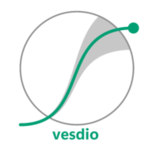
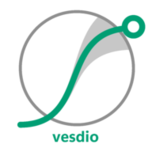
clean files

Changed region(s): [[0.1053, 0.0526, 0.9737, 0.9474]]

diff --git a/assets/custom.css b/assets/custom.css
@@ -1,0 +1,10 @@
+/* assets/custom.css */
+
+/*
+  This rule targets the individual options within a dcc.Dropdown menu.
+  It allows text to wrap and increases the vertical padding to make each
+  option taller, which prevents wrapped text from looking cramped.
+*/
+.Select-menu-outer .Select-option {
+    padding: 8px 12px;
+}

diff --git a/app.py b/app.py
@@ -17,7 +17,6 @@ from threading import Timer
 from src.data_loader import load_labels_data, load_mrio_matrices, load_production_history, load_encore_materiality
 from src.callbacks import handle_simulation_results
 from src.config import country_mapping, COUNTRY_CODES_3_LETTER, COLOR_PALETTE, get_valid_region_groups
-from src.plotting import truncate_label, create_builder_historical_plot
 
 # --- 1. Load Data and Pre-compute --- #
 # Data will be loaded within the callback based on the selected year
@@ -25,10 +24,12 @@ from src.plotting import truncate_label, create_builder_historical_plot
 # --- 2. Initialize Dash App --- #
 app = dash.Dash(__name__,
     suppress_callback_exceptions=True,
-    external_stylesheets=[{
-        'href': 'https://codepen.io/chriddyp/pen/bWLwgP.css',
-        'rel': 'stylesheet'
-    }]
+    external_stylesheets=[
+        # Default Dash stylesheet
+        'https://codepen.io/chriddyp/pen/bWLwgP.css',
+        # Custom styles for dropdowns and other elements
+        '/assets/custom.css'
+    ]
 )
 server = app.server
 
@@ -55,7 +56,10 @@ app.layout = html.Div(style={'fontFamily': 'Arial, sans-serif', 'height': '100vh
             'flexShrink': 0 # Prevent the bar from shrinking
         },
         children=[
-            html.H1("VESD.IO", style={'margin': 0, 'fontSize': '24px'}),
+            html.Div(style={'display': 'flex', 'alignItems': 'center'}, children=[
+                html.Img(src='/assets/ms-icon-310x310.png', style={'height': '50px', 'marginRight': '15px'}),
+                html.H1("VESDIO", style={'margin': 0, 'fontSize': '24px'}),
+            ]),
             html.Button("Instructions", id="open-instructions-button", n_clicks=0, className='button-primary')
         ]
     ),
@@ -96,15 +100,13 @@ app.layout = html.Div(style={'fontFamily': 'Arial, sans-serif', 'height': '100vh
                 ]),
                 # Portfolio Mode Controls
                 html.Div(id='portfolio-controls', style={'display': 'none'}, children=[
-                    html.Div(className='row', style={'marginTop': '10px'}, children=[
-                        html.Div(className='six columns', children=[
-                            html.Label("Region:"),
-                            dcc.Dropdown(id='portfolio-region-select')
-                        ]),
-                        html.Div(className='six columns', children=[
+                    html.Div(children=[
+                        html.Label("Region:"),
+                        dcc.Dropdown(id='portfolio-region-select')
+                    ]),
+                    html.Div(children=[
                             html.Label("Sector:"),
                             dcc.Dropdown(id='portfolio-sector-select')
-                        ]),
                     ]),
                     html.Label("Portfolio Weight (%):"),
                     dcc.Input(id='portfolio-weight-input', type='number', min=0.1, max=100, step=0.1, value=10, style={'width': '100%'}),
@@ -375,11 +377,11 @@ app.layout = html.Div(style={'fontFamily': 'Arial, sans-serif', 'height': '100vh
                 # Header
                 html.Div([
                     html.Span("×", id="instructions-modal-close-button", style={'color': '#aaa', 'float': 'right', 'fontSize': '28px', 'fontWeight': 'bold', 'cursor': 'pointer'}),
-                    html.H2("How to Use VESD.IO"),
+                    html.H2("How to Use VESDIO"),
                 ]),
                 # Body with instructions
                 dcc.Markdown('''
-                    Welcome to the Valuing Ecosystem Service Dependencies with Input-Output (VESD.IO) tool. This application helps you simulate the economic impacts of ecosystem services and supply chain disruptions.
+                    Welcome to the Valuing Ecosystem Service Dependencies with Input-Output (VESDIO) tool. This application helps you simulate the economic impacts of ecosystem services and supply chain disruptions.
 
                     #### **Step 1: Set Your Perspective**
                     In the "Your Position / Portfolio" panel, choose how you want to analyze impacts:
@@ -469,7 +471,7 @@ def update_dropdowns(year):
     ] + country_options
 
     # Sector options
-    sector_options = [{'label': truncate_label(s), 'value': s} for s in SECTORS]
+    sector_options = [{'label': s, 'value': s} for s in SECTORS]
 
     # Add ecosystem services options for the dropdown
     encore_materiality = load_encore_materiality()
@@ -894,16 +896,21 @@ def run_and_update_all_results(n_clicks, year, position_mode, portfolio_data, ho
     )
 
 if __name__ == '__main__':
+    # Determine if running as a bundled executable
+    is_frozen = getattr(sys, 'frozen', False)
+    debug_mode = not is_frozen
+
     host = "127.0.0.1"
     port = 8050
     url = f"http://{host}:{port}"
 
     def open_browser():
-        webbrowser.open_new(url) 
+        webbrowser.open_new(url)
 
-    # The reloader will run this script twice. We only want to open the browser on the first run.
-    if not os.environ.get("WERKZEUG_RUN_MAIN"):
+    # For a bundled app, or when not in debug mode, open the browser directly.
+    # For debug mode, only open it in the main Werkzeug process to avoid multiple tabs.
+    if is_frozen or not os.environ.get("WERKZEUG_RUN_MAIN"):
         Timer(1, open_browser).start()
-        
+
     print(f"Application ready. Starting server on {url}")
-    app.run(host=host, port=port, debug=True)
+    app.run(host=host, port=port, debug=debug_mode)
